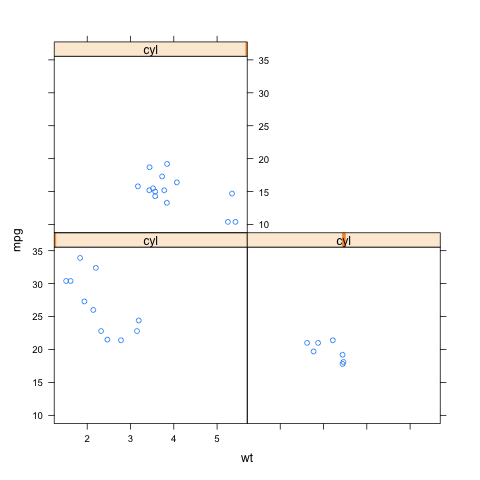
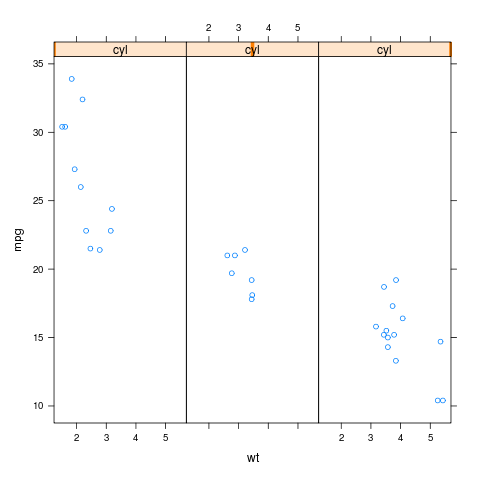
fixed the layout for the lattice example

diff --git a/doc/source/graphics.rst b/doc/source/graphics.rst
@@ -76,8 +76,8 @@ Scatter plot
    formula.getenvironment()['wt'] = mtcars.r['wt'][0]
    formula.getenvironment()['cyl'] = mtcars.r['cyl'][0]
 
-   p = xyplot(formula)
-   rprint(p, layout=robjects.IntVector((3, 1)))
+   p = xyplot(formula, layout=robjects.IntVector((3, 1)))
+   rprint(p)
 
 .. image:: _static/graphics_lattice_xyplot_3.png
    :scale: 50
